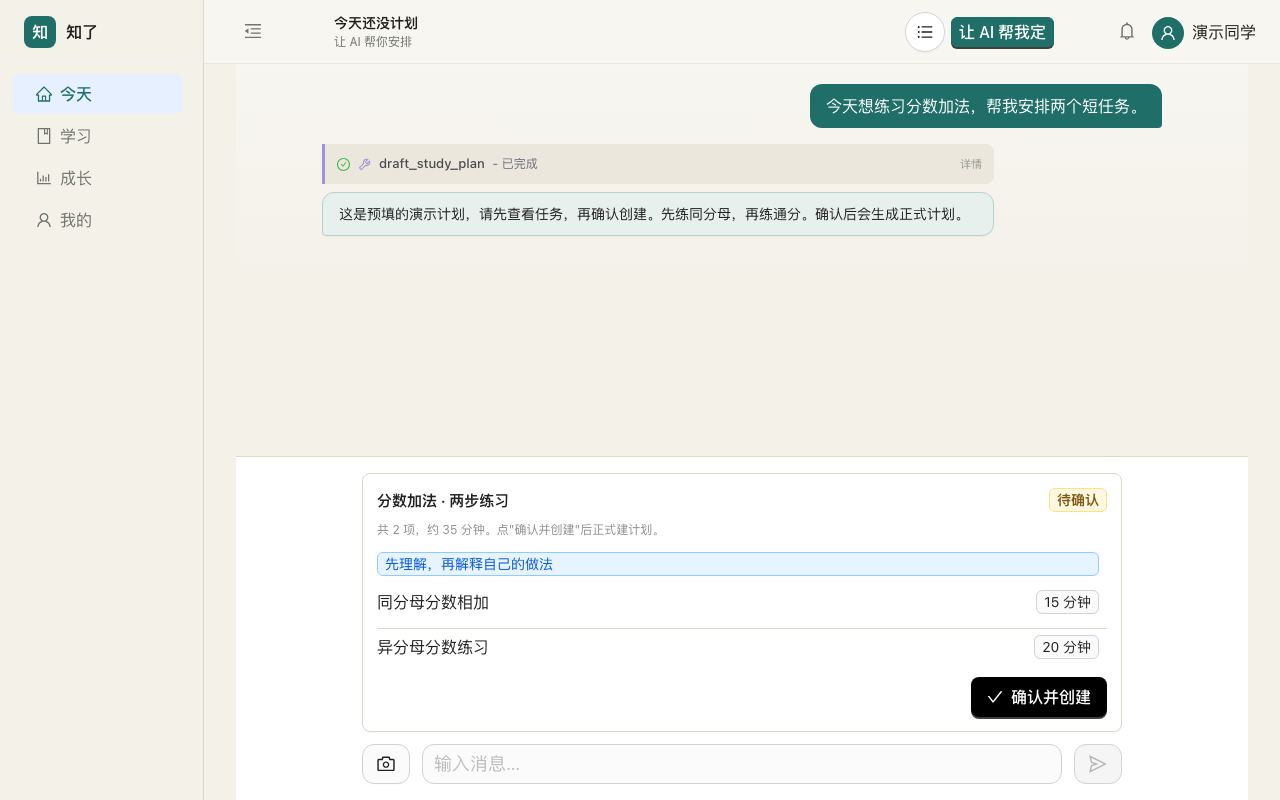
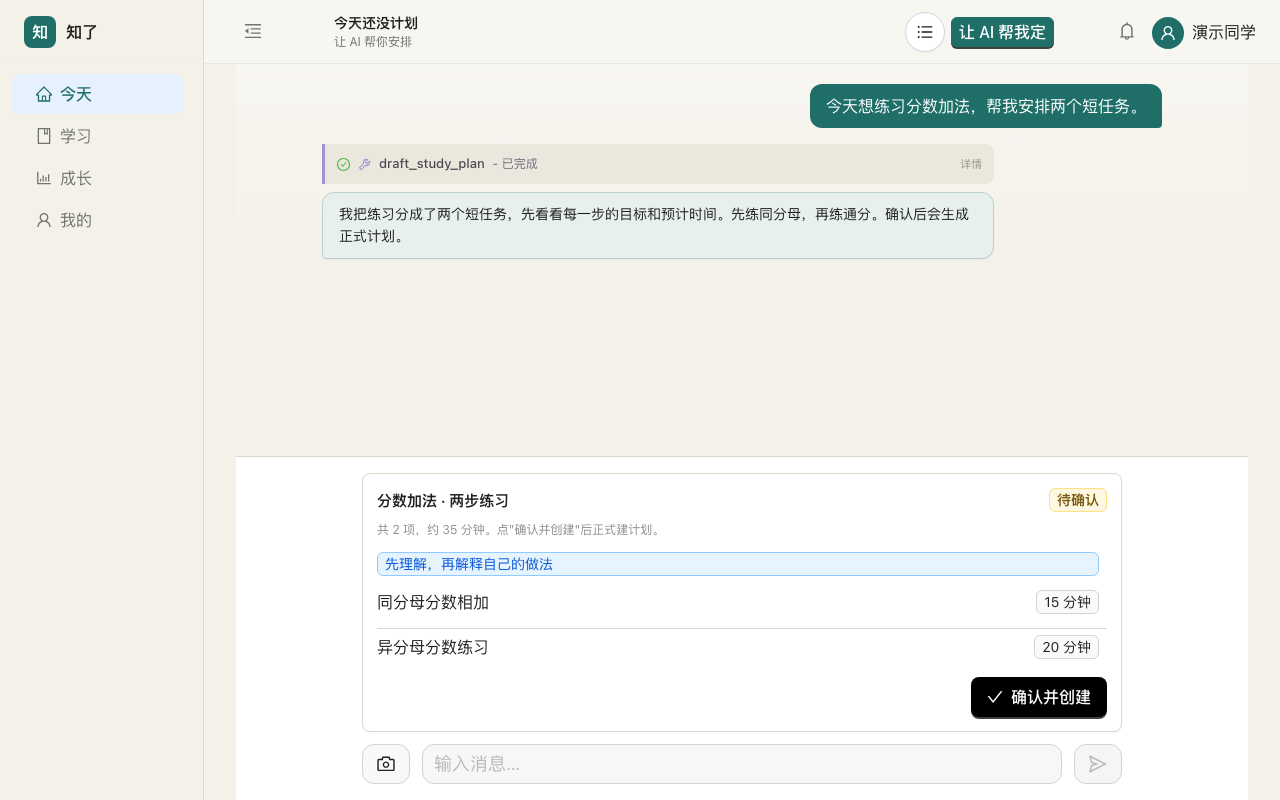
docs: bound overview and recapture natural learning sessions

Changed region(s): [[0.25, 0.25, 0.75, 0.3125]]

diff --git a/docs/images/seed-demo.py b/docs/images/seed-demo.py
@@ -23,7 +23,7 @@ with SessionLocal() as db:
     output=dict(draft.draft_data,drafted=True,draft_id=draft.id,revision=1,chat_session_id=main.id,created_at=datetime.now(timezone.utc).isoformat())
     db.add_all([
       ChatMessage(session_id=main.id,role='user',content='今天想练习分数加法，帮我安排两个短任务。'),
-      ChatMessage(session_id=main.id,role='assistant',content='这是预填的演示计划，请先查看任务，再确认创建。',tool_calls=[{'id':'demo-draft','function':{'name':'draft_study_plan','arguments':'{}'}}]),
+      ChatMessage(session_id=main.id,role='assistant',content='我把练习分成了两个短任务，先看看每一步的目标和预计时间。',tool_calls=[{'id':'demo-draft','function':{'name':'draft_study_plan','arguments':'{}'}}]),
       ChatMessage(session_id=main.id,role='tool',content=json.dumps(output,ensure_ascii=False),tool_result={'tool_call_id':'demo-draft'}),
       ChatMessage(session_id=main.id,role='assistant',content='先练同分母，再练通分。确认后会生成正式计划。')])
     plan=StudyPlan(student_id=user.id,created_by=user.id,title='分数加法 · 昨日练习',focus='保留作答，接着练习',planned_date=date.today())
@@ -33,10 +33,12 @@ with SessionLocal() as db:
     task=ChatSession(user_id=user.id,student_id=user.id,role_at_create='student',title='任务 · 同分母分数相加',session_type='task',plan_id=plan.id,plan_item_id=taskitem.id)
     db.add(task);db.flush()
     db.add_all([
-      ChatMessage(session_id=task.id,role='assistant',content='**同分母分数相加**\n\n试一试：$\\frac{1}{5}+\\frac{2}{5}$ 等于多少？请解释为什么分母不变。\n\n（预填演示讲解，不是模型实时回复。）'),
+      ChatMessage(session_id=task.id,role='assistant',content='**同分母分数相加**\n\n试一试：$\\frac{1}{5}+\\frac{2}{5}$ 等于多少？请解释为什么分母不变。'),
       ChatMessage(session_id=task.id,role='user',content='等于 3/5。把同样大小的五分之一合在一起，所以分母还是 5。'),
-      ChatMessage(session_id=task.id,role='assistant',content='**作答记录（预填演示）**\n\n已保留你的答案和解释。下一次从「用图解释分母为什么不变」接着练习。\n\n这份演示判定仅展示记录结构，不代表已经掌握。')])
-    db.add(StudyPlanItemAttempt(plan_item_id=taskitem.id,student_id=user.id,assessment='needs_retry',evidence_summary='学生回答 3/5，并解释单位分数大小不变（虚构作答）',reason='预填演示，继续核对理解',next_start='用图解释分母为什么不变'))
+      ChatMessage(session_id=task.id,role='assistant',content='**作答反馈**\n\n答案 3/5 正确。你说出了关键：每一份的大小没有变，相加的是份数。\n\n再想一步：如果把 1/5 和 2/5 都画在同一个长方形里，应该把它平均分成几份？涂色的部分有几份？'),
+      ChatMessage(session_id=task.id,role='user',content='平均分成 5 份，先涂 1 份，再涂 2 份，一共涂了 3 份。不能改成 3/10，因为每一份没有变小。'),
+      ChatMessage(session_id=task.id,role='assistant',content='**接下来怎么练**\n\n你的图和算式能对应起来了。请再画一张图解释 $\\frac{2}{7}+\\frac{3}{7}$，并写出相加前后每一份的大小。\n\n这次的答案和解释已经保留，下次打开这个任务可以从画图练习继续。')])
+    db.add(StudyPlanItemAttempt(plan_item_id=taskitem.id,student_id=user.id,assessment='needs_retry',evidence_summary='学生回答 3/5，并解释单位分数大小不变（虚构作答）',reason='用图进一步核对单位分数的理解',next_start='用图解释分母为什么不变'))
     db.commit()
     token=create_access_token(user.id,user.role)
     target=Path(__file__).parent

diff --git a/docs/images/SOURCES.md b/docs/images/SOURCES.md
@@ -1,25 +1,16 @@
-# README image provenance
+# README image sources
 
-All four PNGs are screenshots of the real React client backed by the real FastAPI app and a new, isolated MySQL 9.1 instance. Browser: headless Playwright Chromium, 1280 × 800. No paid model, real student data or Telegram service was used.
+Four screenshots from the real React → FastAPI → isolated MySQL 9.1 application, using hand-authored synthetic plans, dialogue and feedback; no model calls. The draft and task are separate fixture plans.
 
-| Image | Page / source | Synthetic state |
-| --- | --- | --- |
-| overview.png | `http://127.0.0.1:15173/#/study-plans` | Learning page, prefilled unfinished plan and continue entry |
-| plan-confirm.png | `http://127.0.0.1:15173/#/chat` | Main session with pending draft and confirmation card |
-| task-session.png | `http://127.0.0.1:15173/#/chat` | Restored task session with fictional answer and prefilled feedback |
-| resume.png | `http://127.0.0.1:15173/#/study-plans/all` | Plan list and unfinished task |
+| Image | Route | Viewport | SHA-256 |
+| --- | --- | --- | --- |
[4 lines of base64/hex data omitted]
 
-These are prefilled stage examples, not a recorded model-driven end-to-end lesson. The pending draft and existing task belong to two separately prefilled plans. `StudyPlanItemAttempt` is also prefilled; the screenshot shows saved chat history, not an independently generated assessment. No live grading, actual mastery, real-time reply or cross-day carryover is demonstrated. We do not capture a model-only state that cannot be produced offline.
+Reproduce in a new disposable local database named `readme_demo_test`: install dependencies and initialize with `PYTHONPATH=. .venv/bin/python scripts/init_db.py`, then run `PYTHONPATH=. .venv/bin/python ../docs/images/seed-demo.py` from studybuddy-backend. The script creates only fictional records and ignored browser states. Set the database host to 127.0.0.1, a dedicated local port/account, blank LLM_API_KEY, LLM_BASE_URL=http://127.0.0.1:9 and WECHAT_ENABLED=false. Start FastAPI on 18011 and Vite on 15173 with VITE_API_BASE=http://127.0.0.1:18011; load the routes above with the script's plan/task storage states in headless Chromium.
 
-Reproduction (new empty disposable database only):
+Capture command: `node /path/to/skill/scripts/run.mjs capture --type web-app --repo . --work WORK --id learning --brief WORK/brief.json`. The brief supplies setup, service commands/readiness, routes, viewports and storage-state paths. Keep that brief, capture receipt and README previews outside the repository; stop owned services after capture.
 
-1. Follow the README to install backend/frontend dependencies. Start a separate local MySQL with a new data directory and port 13317, database `readme_demo_test`, dedicated `readme_demo` account and synthetic-only password. Never use an existing database.
-2. Set the synthetic environment from `capture-brief.json`, then run `PYTHONPATH=. .venv/bin/python scripts/init_db.py` in `studybuddy-backend`. This creates the real schema. Model key is blank and `LLM_BASE_URL=http://127.0.0.1:9`; optional integrations stay disabled.
-3. Run the v0.3 skill from its checkout:
-   `node scripts/run.mjs capture --type web-app --repo /path/to/studybuddy --work WORK --id learning --brief /path/to/studybuddy/docs/images/capture-brief.json`.
-   Its setup runs `seed-demo.py` exactly once, generating the synthetic-only private browser states ignored by Git. It starts the two services in the brief, waits for readiness, opens the listed routes and stops both services afterward. Stop your separate disposable MySQL when finished.
-4. Copy the four captured PNGs into this directory. Recheck against `illustrate.json`; new file hashes must match the new capture, rather than reusing this receipt.
-
-`capture-receipt.json` preserves the actual capture receipt with only the task's absolute path replaced by `$TASK`. It records executed commands, service readiness, requested/final URLs, viewport, bytes and SHA-256. For the original run, dependency/database initialization and `seed-demo.py` ran before capture, so that receipt has no setup command; the accompanying repeatable brief includes the seed as setup. Browser-state files contain only a synthetic token but must still stay out of commits.
-
-`baseline.json` is the pre-edit README byte snapshot. `illustrate.json` identifies the exact inserted image/caption blocks and sources. Verification strips only those blocks and compares every original byte, H2, badge and shell block. The original installation is already below the desktop fold; this image-only PR is a draft with that hard failure disclosed. README preview screenshots are kept outside the repository.
+The compact illustrate.json records baseline commit/blob references, hashes and insertion fields. Verify uses git show to compare original README bytes after removing declared blocks. Baseline installation was already below the desktop fold; report it as a warning.

diff --git a/README.md b/README.md
@@ -2,13 +2,13 @@
 
 把「今天学什么、刚才完成了什么、下次怎么继续」连起来的个人学习项目。保留完整 React 客户端、FastAPI 服务和 Agent 工具循环，适合本地试用与自托管研究。这里不提供公共在线服务，也不保证提分。
 
+<!-- readme-illustrate:overview -->
+<img src="docs/images/overview.png" alt="学习页中的计划与继续入口" width="640">
+
+学习总览：查看今日计划与继续入口。
+<!-- /readme-illustrate:overview -->
 源码采用 [AGPL-3.0-only](LICENSE)，保留原有 PDF 处理能力。模型服务需使用自己的账号与密钥，并承担相应调用费用。
 
-<!-- readme-illustrate:overview -->
-<img src="docs/images/overview.png" alt="学习页中的计划与继续入口" width="838">
-
-真实本地界面，使用虚构账号与预填计划；不代表模型教学效果。
-<!-- /readme-illustrate:overview -->
 ## 一次学习如何接续
 
 1. **确认计划**：Agent 先保存带版本号的计划草案，学生查看并点击「确认并创建」，服务端用这份草案生成计划，重复确认不会重复建计划。
@@ -16,21 +16,6 @@
 3. **保留作答证据**：完成判定需要附带学生作答证据，写入判定记录后才更新任务状态。AI 判断仍需核对，不等于已经掌握知识。
 4. **继续未完成内容**：可以恢复任务会话，也可以把未完成计划沿用到今天。这里没有承诺精确恢复每一个教学步骤。
 
-<!-- readme-illustrate:plan-confirm -->
-<img src="docs/images/plan-confirm.png" alt="查看两项计划草案并确认创建" width="838">
-
-步骤 1：真实应用中的「确认并创建」卡片。草案与对话为预填合成数据，未调用模型。
-<!-- /readme-illustrate:plan-confirm -->
-<!-- readme-illustrate:task-session -->
-<img src="docs/images/task-session.png" alt="任务会话中保留的作答与下一次练习起点" width="838">
-
-步骤 2：真实任务会话读取虚构作答及预填反馈；这份演示判定不代表已经掌握。
-<!-- /readme-illustrate:task-session -->
-<!-- readme-illustrate:resume -->
-<img src="docs/images/resume.png" alt="计划列表中的继续学习与完成状态" width="838">
-
-步骤 3：从计划列表找到未完成任务的继续入口。这里展示预填状态，未执行实时教学或跨日沿用。
-<!-- /readme-illustrate:resume -->
 此外包含笔记、素材解析、练习与错题、学习记录、家庭任务等已有模块。微信、腾讯云 COS、视频转写和外部题源检索均需另行配置；默认不启用微信，未配置 COS 时使用本地文件存储。独立微信 Bot 服务与原部署环境不在本仓库中。
 
 ## 本地启动
@@ -72,6 +57,11 @@ npm run dev -- --host 127.0.0.1
 
 打开终端显示的本机地址，注册一个自己的学生账号。客户端默认连接 `http://127.0.0.1:8001`；自定义 `VITE_API_BASE` 会在开发和构建时同样生效。更改前端环境变量后需重新启动或构建。
 
+<!-- readme-illustrate:steps -->
+<table>
+<tr><td align="center"><a href="docs/images/plan-confirm.png"><img src="docs/images/plan-confirm.png" alt="查看两项计划草案并确认创建" width="250"></a><br>确认任务与预计时间。</td><td align="center"><a href="docs/images/task-session.png"><img src="docs/images/task-session.png" alt="任务会话中保留的作答与下一次练习起点" width="250"></a><br>保留作答与下一步练习。</td><td align="center"><a href="docs/images/resume.png"><img src="docs/images/resume.png" alt="计划列表中的继续学习与完成状态" width="250"></a><br>继续未完成任务。</td></tr>
+</table>
+<!-- /readme-illustrate:steps -->
 ## 模型配置
 
 密钥放在后端自己的环境变量 `LLM_API_KEY` 中；模型、参数风格在 `studybuddy-backend/config.yaml` 的 `llm` 段设置。修改下列字段即可，保留该段其他超时、重试配置。
